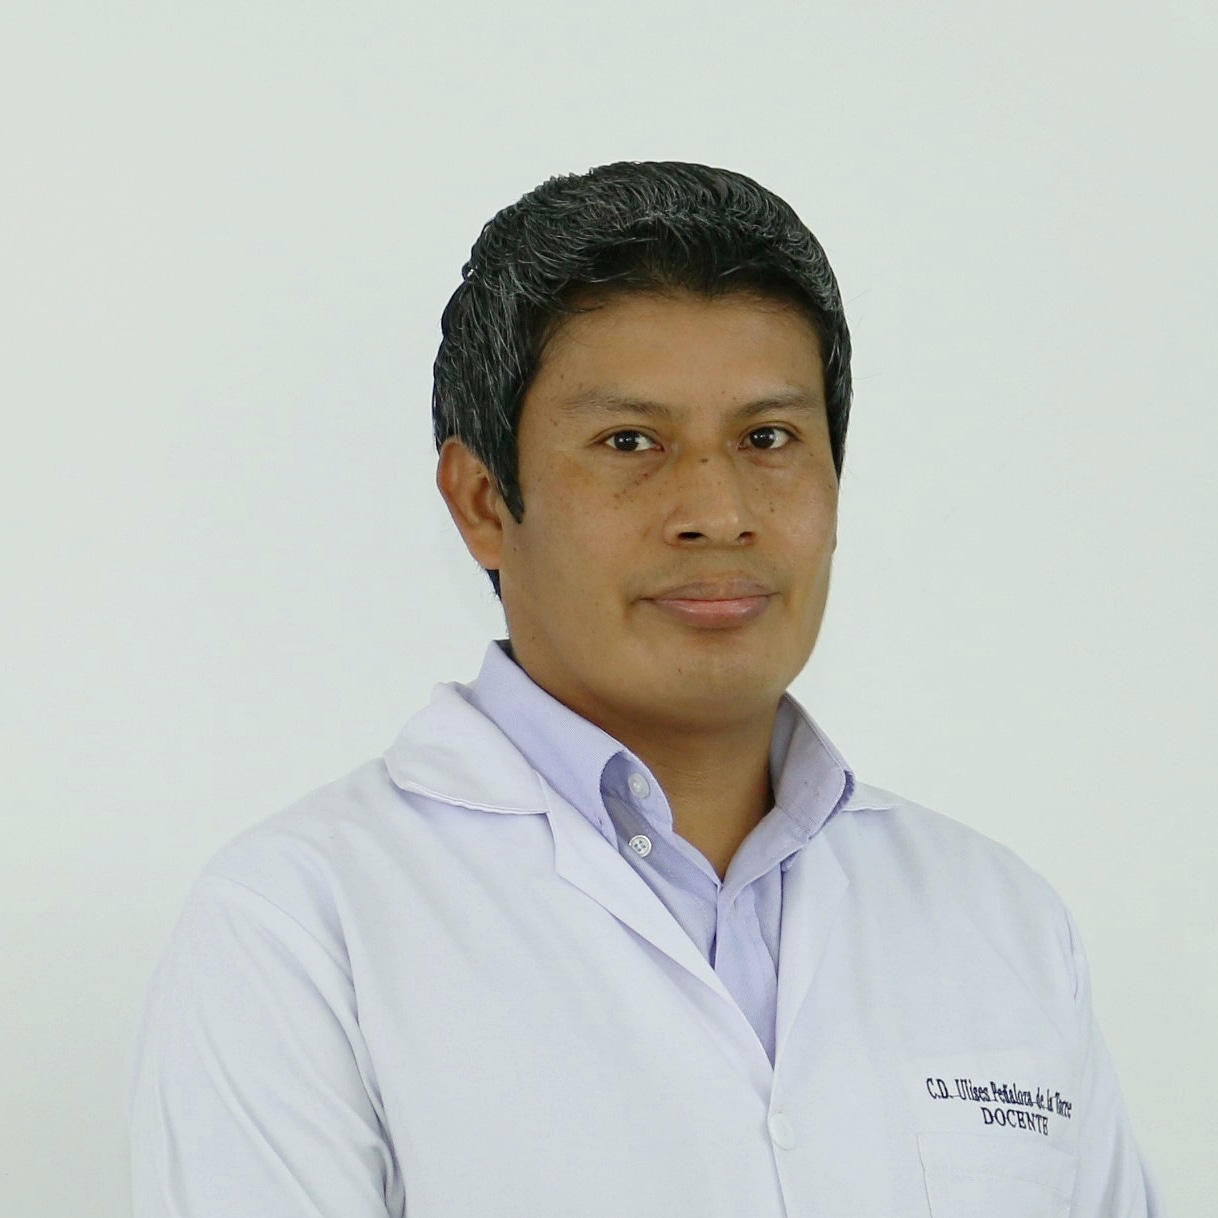
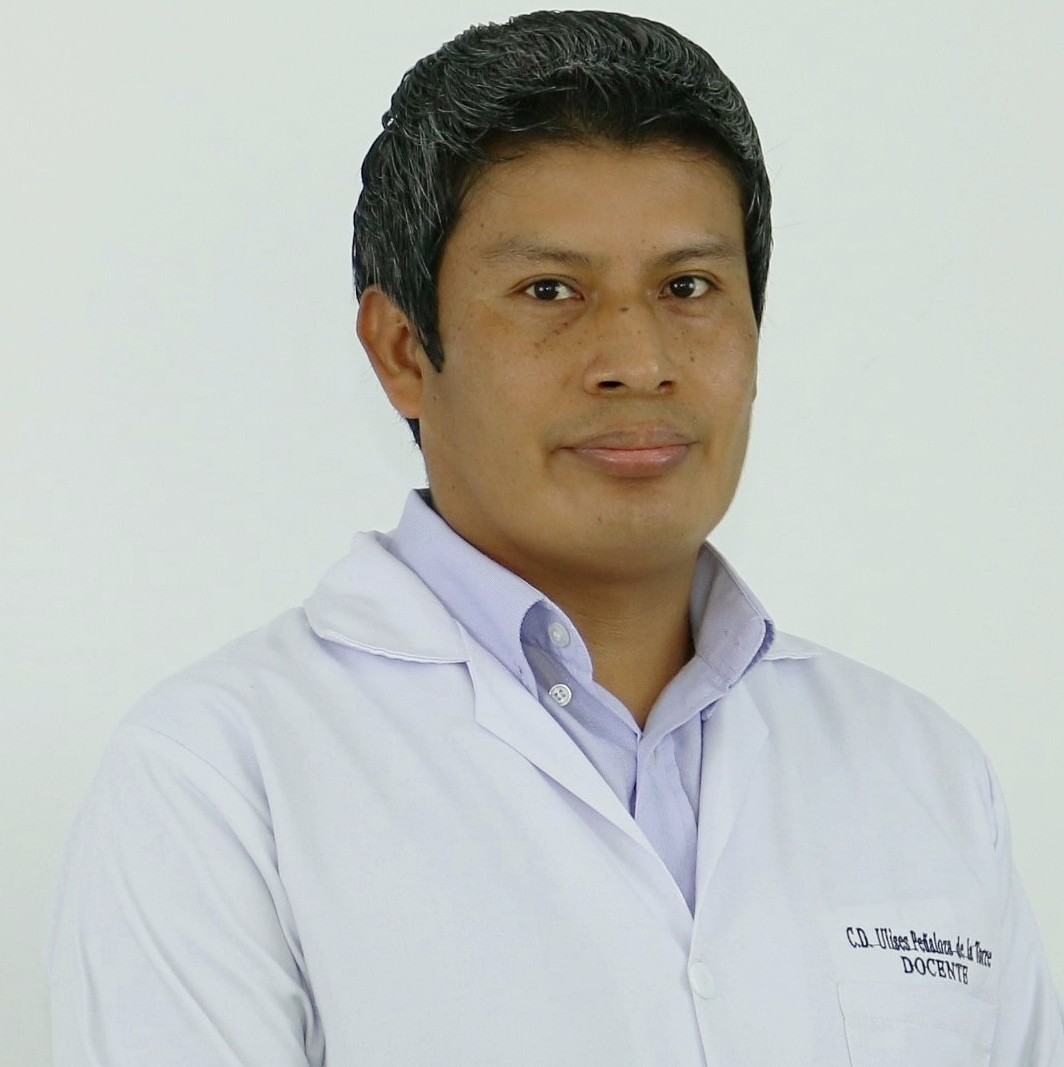
detalles

diff --git a/app/page.tsx b/app/page.tsx
@@ -65,7 +65,7 @@ import { EmblaOptionsType } from "embla-carousel";
 // --- Componente Header ---
 const Header = () => (
   <header className='bg-white shadow-md fixed top-0 left-0 right-0 z-50'>
-    <div className='container mx-auto px-6 py-4 flex justify-between items-center'>
+    <div className='container mx-auto px-6 py-2 flex justify-between items-center'>
       <Link
         href='/'
         className='text-2xl font-bold text-blue-600'
@@ -74,8 +74,8 @@ const Header = () => (
         <Image
           src='/logo.png'
           alt='Dental Company Logo'
-          width={140}
-          height={25}
+          width={160}
+          height={40}
         />
       </Link>
       <nav className='hidden md:flex space-x-8 items-center'>
@@ -253,7 +253,7 @@ export default function LandingPage() {
         <section>
           <Carousel loop />
         </section>
-        {/* 3. Servicios (SECCIÓN ACTUALIZADA) */}
+        {/* 3. Servicios*/}
         <section
           id='servicios'
           className='py-20 bg-white'
@@ -311,7 +311,7 @@ export default function LandingPage() {
               {/* Dentista 2 */}
               <div className='text-center'>
                 <Image
-                  src='/team/doctor2.jpg'
+                  src='/dentista.png'
                   alt='Dra. Gabriela Condori'
                   width={150}
                   height={150}
@@ -325,7 +325,7 @@ export default function LandingPage() {
               {/* Dentista 3 */}
               <div className='text-center'>
                 <Image
-                  src='/team/doctor3.jpg'
+                  src='/dentista.png'
                   alt='Dra. Paola Peñaloza'
                   width={150}
                   height={150}
@@ -366,7 +366,7 @@ export default function LandingPage() {
             <div className='grid grid-cols-1 md:grid-cols-3 gap-8'>
               {/* Columna 1: Información */}
               <div>
-                <h3 className='text-xl font-bold mb-4 mt-4'>Dental Company</h3>
+                <h3 className='text-xl font-bold mb-4 mt-10'>Dental Company</h3>
                 <p className='text-gray-400'>
                   DENTAL COMPANY es un centro odontológico integral de última
                   generación que combina excelencia clínica, tecnología avanzada
@@ -390,7 +390,8 @@ export default function LandingPage() {
                     <strong>Email:</strong> d.c.com@hotmail.com
                   </li>
                   <li>
-                    <strong>Horario:</strong> Lun - Vie: 9am - 7pm, Sábados 9am - 1pm
+                    <strong>Horario:</strong> Lun - Vie: 9am - 7pm, Sábados 9am
+                    - 1pm
                   </li>
                 </ul>
               </div>
